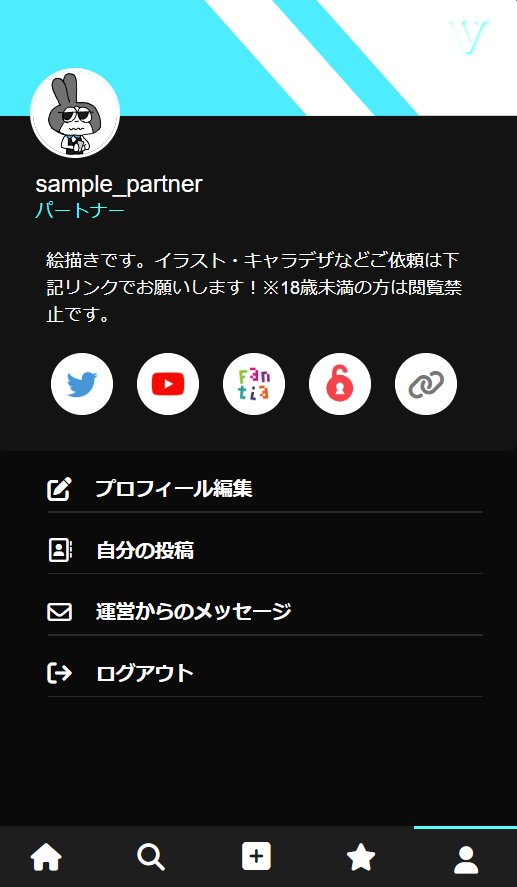
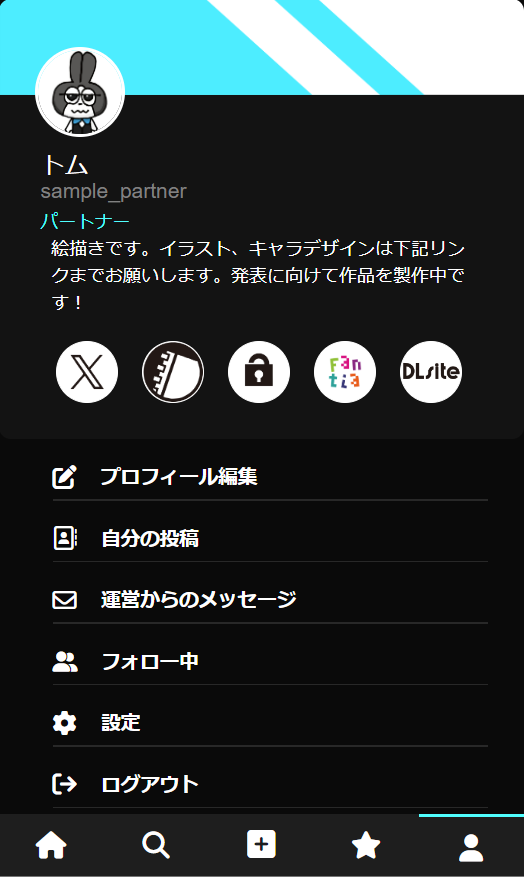
for_invitedの写真変更等

diff --git a/viewy/templates/for_invited.html b/viewy/templates/for_invited.html
@@ -37,13 +37,13 @@
 
       <div class="big-title">Viewyとは？</div>
 
-        <div class="big-content">
-          Viewyとは、<br><span>最大２分の動画</span>と<span>最大３１ページのマンガ</span>が投稿・視聴できる、<span>スマホ向け無料ウェブサービス</span>です。<br>
-          スマホ向けにデザインされ、投稿は<span>リール形式で表示</span>されます。
+        <div class="content">
+          <span>Viewy</span>とは、<br><span>最大２分の動画</span>と<span>最大３１ページのマンガ</span>が<br>投稿・視聴できる、<br><span>スマホ向け無料ウェブサービス</span>です。<br>
+          スマホ向けにデザインされ、<br>投稿は<span>リール形式で表示</span>されます。
         </div>
 
         <div class="img-box">
-          <img src="\media\others\ホーム.png" alt="">
+          <img src="\media\others\投稿.png" alt="">
           <img src="\media\others\いいね欄.png" alt="">
           <img src="\media\others\検索画面.png" alt="">
           <img src="\media\others\プロフィール.png" alt="">
@@ -84,9 +84,7 @@
           ユーザーネームを送信するだけの、簡単なパートナー登録
         </div>
         <div class="content">
-          本来パートナー登録には、本人確認などの手順が必要ですが、特別招待の場合は
-          このリンクが送信されたDMかメールに
-          <span>ご自身が決めたユーザーネームを送るだけで登録が完了</span>します。</div>
+          本来パートナー登録には、本人確認などの手順が必要ですが、<br>特別招待の場合は、このリンクが送信されたDMかメールに<span>ご自身が決めたユーザーネームを送るだけで登録が完了</span>します。</div>
           
           <div class="chat-img">
             <div class="example">※X（Twitter）の場合</div>
@@ -100,12 +98,12 @@
           </div>
 
           <div class="content">
-            特別招待された方に限り、<span>８月３１日まで</span>に<span>パートナー登録および、最低３つの投稿</span>をしていただければ、<br>
-            <span style="font-size: 20px; text-decoration: underline; text-decoration-color: rgb(79, 235, 235);">Viewyにおける投稿の表示率が永久に３倍になる</span>というプレミアを付与させていただきます。<br>
-            このプレミアを手に入れることで、<span>このサイトを通した収益が永久に３倍になる</span>ことが見込まれます。ぜひともお早めの登録、投稿をよろしくお願いします。
+            特別招待された方に限り、<br><span>８月３１日まで</span>に<br><span>パートナー登録および、最低３つの投稿</span><br>をしていただければ、<br>
+            <span style="font-size: 20px; text-decoration: underline; text-decoration-color: rgb(0, 251, 255);">Viewyにおける投稿の表示率が永久に３倍になる</span>というプレミアを付与させていただきます。<br>
+            このプレミアを手に入れることで、<br><span>このサイトを通した収益が永久に３倍になる</span>ことが見込まれます。ぜひともお早めの登録、投稿をよろしくお願いします。
           </div>
         </div>
-        <div class="table">
+        <div class="table special">
           <div class="table-title">表示率３倍までのステップ</div>
           <div class="step">ユーザー登録し、ユーザーネームを送る</div>
           ↓

diff --git a/viewy/static/css/for_invited.css b/viewy/static/css/for_invited.css
@@ -3,7 +3,6 @@
   background-color: rgb(60, 235, 235);
   border-radius: 24px;
   position: relative;
-  font-weight: bold;
 }
 
 .header{
@@ -56,9 +55,7 @@
 }
 
 span{
-  /* font-weight: bold; */
-  font-size: 16px;
-  text-decoration: underline;
+  font-weight: bold;
 }
 
 .sub-catch{
@@ -114,20 +111,12 @@ hr{
   text-decoration-line: 4px;
 }
 
-.big-content{
-  margin-top: 16px;
-  margin-bottom: 8px;
-  font-size: 15px;
-  line-height: 48px;
-  color: rgb(69, 69, 69);
-  text-align: left;
-  padding: 0px 32px;
-}
 
 .content{
   margin-top: 16px;
+  margin-bottom: 16px;
   font-size: 15px;
-  line-height: 48px;
+  line-height: 28px;
   color: rgb(69, 69, 69);
   text-align: left;
   padding: 0px 32px;
@@ -135,12 +124,13 @@ hr{
 
 
 
-/* .special{
-  background-color: rgb(238, 255, 255);
-} */
+.special{
+  background-color: rgb(246, 255, 254);
+}
 
 .img-box{
   max-width: 100%;
+  margin-bottom: 48px;
   display: flex;
   overflow-x: scroll;
   padding: 0px 16px 16px;
@@ -194,9 +184,13 @@ hr{
   line-height: 24px;
 }
 
+.partner{
+  background-color: rgb(246, 255, 254);
+}
+
 .solution{
   margin-top: 80px;
-  background-color: rgb(251, 251, 251);
+  background-color: rgb(255, 255, 255);
 }
 
 .solution > img{
@@ -235,11 +229,14 @@ hr{
 
 }
 
+
 .table{
   text-align: center;
   font-size: 24px;
   font-weight: bold;
   color: rgb(184, 184, 184);
+  padding-bottom: 4px;
+  margin-bottom: 40px;
 }
 
 .table-title{

diff --git a/viewy/templates/posts/get_more_posts.html b/viewy/templates/posts/get_more_posts.html
@@ -83,13 +83,20 @@
         </label>
       </div>
 
-      {% if post.ismanga %}
+
       <div class="space-for-hide"></div>
-      {% endif %}
+
 
     </div>
 
     <div class="captions">
+      <div class="poster-name">
+        {% if post.poster.displayname %}
+        <div class="poster-name">＠ {{post.poster.displayname}}</div>
+        {% else %}
+        <div class="poster-name">＠ {{post.poster.username}}</div>
+        {% endif %}      
+      </div>
       <div class="title">
         {{post.title}}
       </div>
@@ -192,11 +199,11 @@
 
   </div>
 
-  {% if post.ismanga %}
+
   <label class="hide-label fa-solid fa-angle-down hide">
     <input class="hide-input" type="checkbox" style="display: none;">
   </label>
-  {% endif %}
+
 
   <div class="page-count">
     {% if post.ismanga %}

diff --git a/viewy/templates/posts/my_account.html b/viewy/templates/posts/my_account.html
@@ -11,12 +11,12 @@
   <img src="\media\accounts_prf_imgs\仮ヘッダー２.png" alt="" class="header">
   <div class="not-caption">
     <div class="user-img">
-      {% if user.prf_img %}
+      {% if request.user and request.user|is_poster %}
       <a href="{% url 'posts:poster_page' username=user.username %}"">
         <img class="prf_img" src="{{user.prf_img.url}}" alt="">
       </a>
       {% else %}
-      <img class="prf_img" src="\media\others\S__208183299.jpg" alt="">
+      <img class="prf_img" src="\media\others\初期プロフ.jpg" alt="">
       {% endif %}
     </div>
     <div class="name-grade">

diff --git a/viewy/templates/posts/base_list.html b/viewy/templates/posts/base_list.html
@@ -104,9 +104,9 @@
         </label>
       </div>
 
-      {% if post.ismanga %}
+
       <div class="space-for-hide"></div>
-      {% endif %}
+
 
     </div>
 
@@ -220,11 +220,11 @@
 
   </div>
 
-  {% if post.ismanga %}
+
   <label class="hide-label fa-solid fa-angle-down hide">
     <input class="hide-input" type="checkbox" style="display: none;">
   </label>
-  {% endif %}
+
 
   <div class="page-count">
     {% if post.ismanga %}

diff --git a/viewy/static/css/styleguide.css b/viewy/static/css/styleguide.css
@@ -10,7 +10,7 @@
 
 .theme{
   background-color: white;
-  border-radius: 50px;
+  border-radius: 8px;
   width: 64%;
   height: 56px;
   line-height: 56px;
@@ -33,7 +33,7 @@
 
 .main{
   background-color: white;
-  border-radius: 24px;
+  border-radius: 8px;
   width: 96%;
   margin-left: auto;
   margin-right: auto;

diff --git a/viewy/static/css/styleverify.css b/viewy/static/css/styleverify.css
@@ -79,5 +79,5 @@ button{
   text-decoration: underline;
   margin-top: 32px;
   font-size: 14px;
-  color: rgb(59, 232, 224);
+  color: rgb(58, 220, 212);
 }

diff --git a/viewy/static/css/stylepost.css b/viewy/static/css/stylepost.css
@@ -639,6 +639,10 @@ input[type="radio"]:checked {
   .alert-success{
     width: 100%;
   }
+
+  .hide{
+    bottom: 56px;
+  }
  }
 
 

diff --git a/viewy/accounts/forms.py b/viewy/accounts/forms.py
@@ -40,8 +40,8 @@ class RegistForm(forms.ModelForm):
   
   def clean_username(self):
       username = self.cleaned_data.get('username')
-      if username and not re.match(r'^[a-zA-Z0-9]+$', username):
-          raise forms.ValidationError("ユーザーネームは英数字のみが使用可能です。")
+      if username and not re.match(r'^[a-zA-Z0-9_]+$', username):
+          raise forms.ValidationError("ユーザーネームは英数字と_のみが使用可能です。")
       return username
 
   def clean_email(self):

diff --git a/viewy/accounts/models.py b/viewy/accounts/models.py
@@ -225,7 +225,7 @@ class Users(AbstractBaseUser, PermissionsMixin):
         
     def save(self, *args, **kwargs):
         if not self.prf_img:
-            self.prf_img = '\others\S__208183299.jpg'
+            self.prf_img = '\others\初期プロフ.jpg'
         super(Users, self).save(*args, **kwargs)
         
     def increment_report_count(self):
